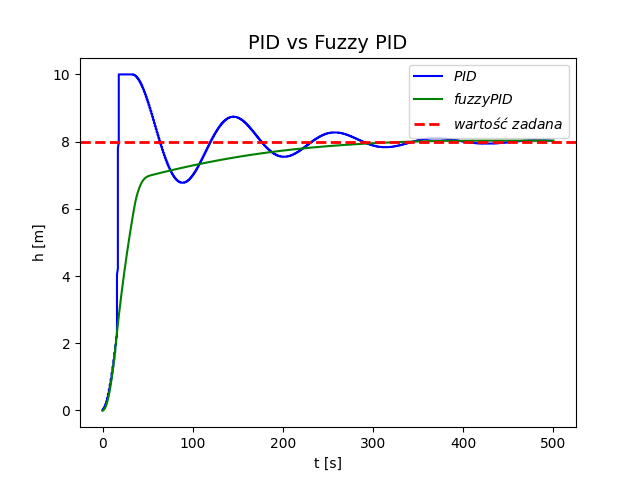
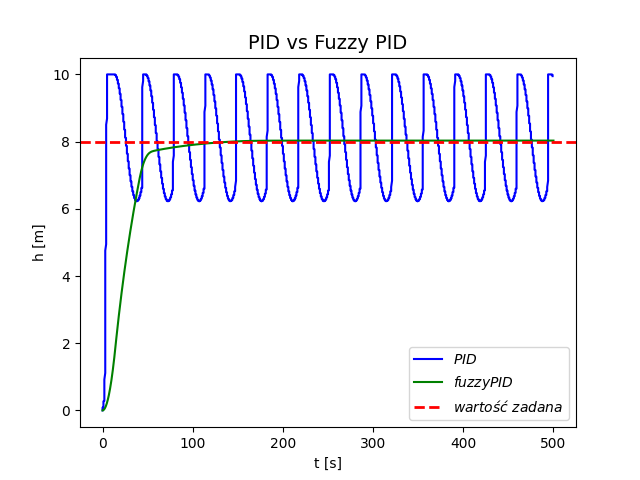
Flask almost working

diff --git a/pid-controller-flask-backend/app.py b/pid-controller-flask-backend/app.py
@@ -1,127 +1,60 @@
-from flask import Flask, request, g, abort, current_app, request, url_for, send_from_directory
-from werkzeug.exceptions import HTTPException, InternalServerError
-from flask_restful import Resource, Api
-from datetime import datetime
-from functools import wraps
-import threading
-import time
-import uuid
+from flask import Flask, request, send_from_directory
+from multiprocessing import Process
 from PIDController import PIDController
 
 
 app = Flask(__name__)
-api = Api(app)
 
-# Configure Flask Asynchronous Tasks Scheduler ------------------------------------------------------------------------
-@app.before_first_request
-def before_first_request():
-    """Start a background thread that cleans up old tasks."""
-    def clean_old_tasks():
-        """
-        This function cleans up old tasks from our in-memory data structure.
-        """
-        global tasks
-        while True:
-            # Only keep tasks that are running or that finished less than 5
-            # minutes ago.
-            five_min_ago = datetime.timestamp(datetime.utcnow()) - 5 * 60
-            tasks = {task_id: task for task_id, task in tasks.items()
-                     if 'completion_timestamp' not in task or task['completion_timestamp'] > five_min_ago}
-            time.sleep(60)
-
-    if not current_app.config['TESTING']:
-        thread = threading.Thread(target=clean_old_tasks)
-        thread.start()
-
-
-def async_api(wrapped_function):
-    @wraps(wrapped_function)
-    def new_function(*args, **kwargs):
-        def task_call(flask_app, environ):
-            # Create a request context similar to that of the original request
-            # so that the task can have access to flask.g, flask.request, etc.
-            with flask_app.request_context(environ):
-                try:
-                    tasks[task_id]['return_value'] = wrapped_function(*args, **kwargs)
-                except HTTPException as e:
-                    tasks[task_id]['return_value'] = current_app.handle_http_exception(e)
-                except Exception as e:
-                    # The function raised an exception, so we set a 500 error
-                    tasks[task_id]['return_value'] = InternalServerError()
-                    if current_app.debug:
-                        # We want to find out if something happened so reraise
-                        raise
-                finally:
-                    # We record the time of the response, to help in garbage
-                    # collecting old tasks
-                    tasks[task_id]['completion_timestamp'] = datetime.timestamp(datetime.utcnow())
-
-                    # close the database session (if any)
-
-        # Assign an id to the asynchronous task
-        task_id = uuid.uuid4().hex
-
-        # Record the task, and then launch it
-        tasks[task_id] = {'task_thread': threading.Thread(
-            target=task_call, args=(current_app._get_current_object(),
-                               request.environ))}
-        tasks[task_id]['task_thread'].start()
-
-        # Return a 202 response, with a link that the client can use to
-        # obtain task status
-        print(url_for('gettaskstatus', task_id=task_id))
-        return 'accepted', 202, {'Location': url_for('gettaskstatus', task_id=task_id)}
-    return new_function
-
-
-class GetTaskStatus(Resource):
-    def get(self, task_id):
-        """
-        Return status about an asynchronous task. If this request returns a 202
-        status code, it means that task hasn't finished yet. Else, the response
-        from the task is returned.
-        """
-        task = tasks.get(task_id)
-        if task is None:
-            abort(404)
-        if 'return_value' not in task:
-            return '', 202, {'Location': url_for('gettaskstatus', task_id=task_id)}
-        return task['return_value']
-
-
-class CatchAll(Resource):
-    @async_api
-    def get(self, path=''):
-        # perform some intensive processing
-        print("starting processing task, path: '%s'" % path)
-        time.sleep(10)
-        print("completed processing task, path: '%s'" % path)
-        return f'The answer is: {path}'
-
-
-api.add_resource(CatchAll, '/<path:path>', '/')
-api.add_resource(GetTaskStatus, '/status/<task_id>')
-
-# PID Logic Controller Declaration ------------------------------------------------------------------------------------
 pid_logic = PIDController()
 
-
-# API Routes ----------------------------------------------------------------------------------------------------------
 @app.route('/')
 def health_check():  # put application's code here
     return 'Healthy!'
 
 
 @app.route('/set-params')
-def set_params(): # ... and secretly schedule some tasks ;)
-    user = request.args.get('user')
-    print(user)
-    return user
+def set_params():
+    pid_logic.set_data(
+     sample_time=request.args.get('sample_time',0.05),
+     differential_time=request.args.get('differential_time',0.15),
+     integration_time=request.args.get('integration_time',0.25),
+     gain=request.args.get('gain',0.1),
+     k_e=request.args.get('k_e',0.2),
+     k_ce=request.args.get('k_ce',0.05),
+     k_u=request.args.get('k_u',0.1),
+     h_z=request.args.get('h_z',8),
+     A=request.args.get('A',2.5),
+     B=request.args.get('B',0.25),
+     h_max=request.args.get('h_max',10),
+     u_max=request.args.get('u_max',10),
+     u_min=request.args.get('u_min',-10),
+     Q_d_max=request.args.get('Q_d_max',1),
+    )
+    return "OK", 201, {"Content-Type": "application/text"}
+
+
+@app.route('/generate-comparison')
+def generate_comparison():
+    heavy_process = Process(  # Create a daemonic process with heavy "my_func"
+        target=pid_logic.comparison_chart,
+        daemon=True
+    )
+    heavy_process.start()
+    return "OK", 201, {"Content-Type": "application/text"}
 
 
 @app.route('/get-pid-chart')
 def get_pid_chart():
     return send_from_directory('static', 'plot.png')
+
+@app.route('/get-fuzzy-chart')
+def get_fuzzy_chart():
+    return send_from_directory('static', 'fuzzy_chart.png')
+
+@app.route('/get-pid-and-fuzzy-chart')
+def get_pid_and_fuzzy_chart():
+    return send_from_directory('static', 'comparison_chart.png')
+
 
 
 if __name__ == '__main__':

diff --git a/pid-controller-flask-backend/PIDController.py b/pid-controller-flask-backend/PIDController.py
@@ -9,11 +9,11 @@ class PIDController:
     def __init__(self, ):
         self.pid = {
             'error': [0, ],  # uchyb regulacji - regulation error
-            'gain': .6,  # wartość wzmocnienia regulatora
-            'sample_time': .05,  # czas próbkowania
-            'differential_time': .05,  # czas wyprzedzenia
-            'integration_time': .75,  # czas zdwojenia
-            'h_z': [8],  # wartość zadana
+            'gain': 0.2,  # wartość wzmocnienia regulatora
+            'sample_time': 0.05,  # czas próbkowania
+            'differential_time': 0.05,  # czas wyprzedzenia
+            'integration_time': 0.75,  # czas zdwojenia
+            'h_z': [],  # wartość zadana
             'h': [0, ]  # poziom substancji w zbiorniku
         }
         self.valve = {
@@ -37,7 +37,7 @@ class PIDController:
         self.fuzzy_val = {
             'k_e': 0.20,  # error
             'k_ce': 0.03,  # errorChange
-            'k_u': 0.1,  # u
+            'k_u': 0.05,  # u
         }
         self.N = 10000
         self.x = [0, ]  # wzór na  sampletime to 1000 * sample time
@@ -47,8 +47,8 @@ class PIDController:
                  sample_time=0.05,
                  differential_time=0.15,
                  integration_time=0.25,
-                 gain=1.0,
-                 k_e=10,
+                 gain=0.1,
+                 k_e=0.2,
                  k_ce=0.05,
                  k_u=0.1,
                  h_z=8,
@@ -124,7 +124,7 @@ class PIDController:
     # FUZZY PID WITH SIMULATION
     def fuzzy_pid_controller_with_simulation(self):
         # fuzzyValue
-        # self.set_data()
+        self.set_data()
 
         ins = ['DU', 'SU', 'SU', 'Z', 'MD', 'SD', 'DD'] # przestrzen lingwistyczna Xl
         outs = ['BDU', 'DU', 'SU', 'MU', 'Z', 'MD', 'SD', 'DD', 'BDD'] # wartosci lingwiztyczne
@@ -388,6 +388,7 @@ class PIDController:
         self.reset_data()
 
     def comparison_chart(self):
+        print("Comparison chart generation started!")
         self.pid_controller_simulation()
         self.fuzzy_pid_controller_with_simulation()
 
@@ -397,9 +398,10 @@ class PIDController:
 
         self.generate_chart("comparison_chart.png", "PID vs Fuzzy PID", draw_plots, 3)
         self.reset_data()
+        print("Comparison chart generation ended!")
 
 
-test = PIDController()
-test.comparison_chart()
+# test = PIDController()
+# test.comparison_chart()
 # test.fuzzy_chart()
 # test.classic_pid_chart()
